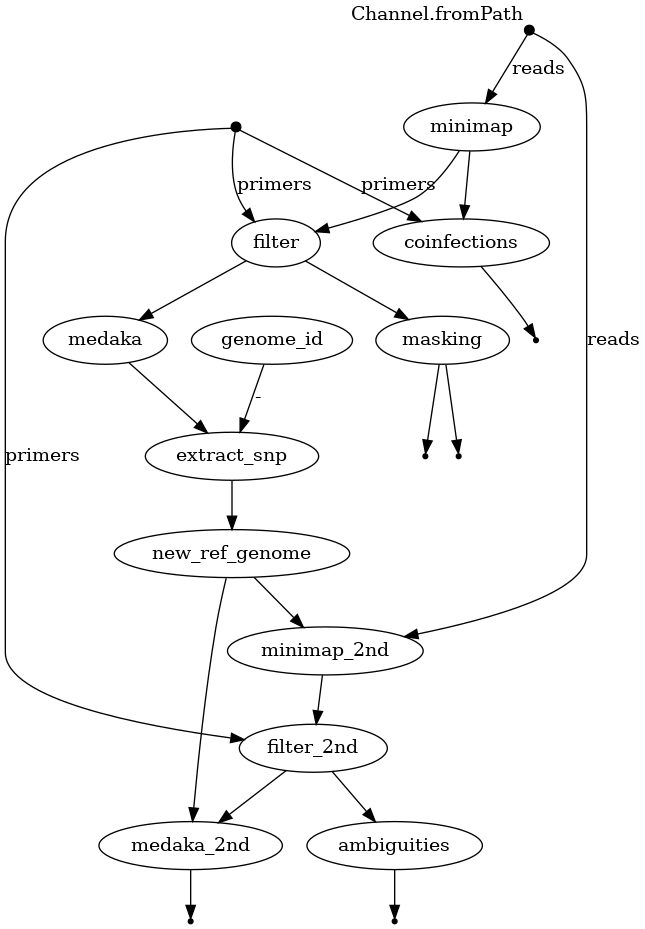
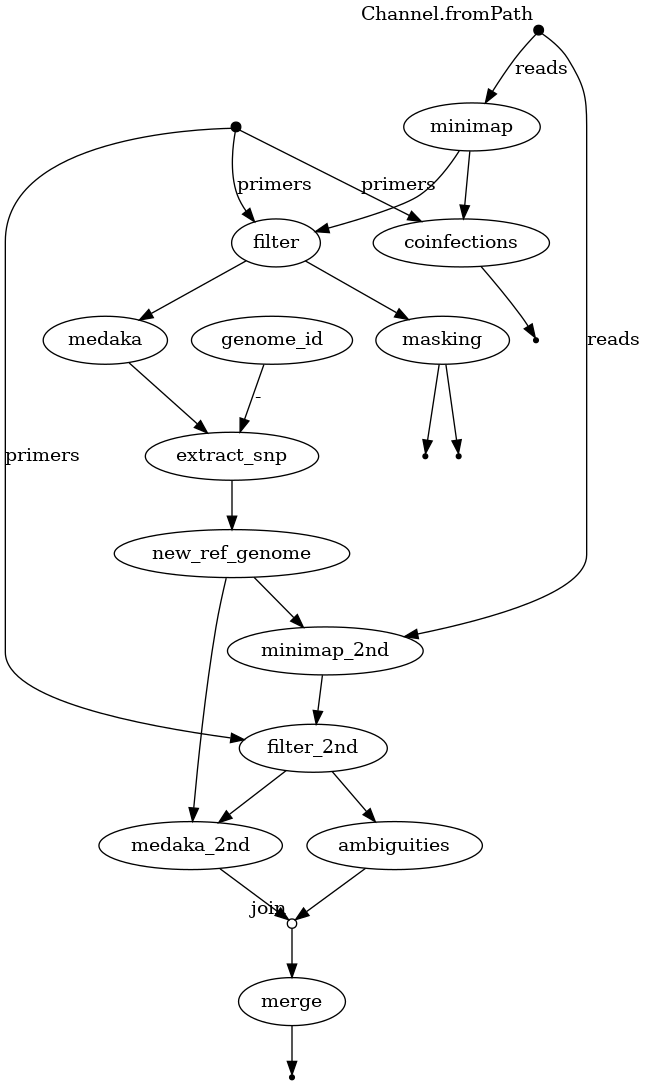
merge.nf module added

diff --git a/bin/merge_varscan_with_medaka_final.py b/bin/merge_varscan_with_medaka_final.py
@@ -1,18 +1,21 @@
-'''
+#!/usr/bin/env python3
+
+"""
 Skrypt zamienia SNP-y wykryte przez medaka na ambigous jesli wedlug varscana uzycie allelu alternatynwego jest ponizej upper_ambig
 Nie testujemy dolnej granicy, bo medaka ma zawsze racje i lower ambi traci tu znaczenie
 wersja na podstawie _5, usunalem tylko stary/nieuzywany kod
-'''
+"""
 
 import sys
+
 import vcf
 
 artic_vcf = sys.argv[1]
 varscan_vcf = sys.argv[2]
 
-upper_ambig=float(sys.argv[3])
+upper_ambig = float(sys.argv[3])
 out = sys.argv[4]
-cov=int(sys.argv[5])
+cov = int(sys.argv[5])
 
 lines_from_varscan = {}
 with open(varscan_vcf) as f:
@@ -23,7 +26,7 @@ with open(varscan_vcf) as f:
             line = line.split('\t')
             CHROM = line[0]
             POS = int(line[1])
-            COVERAGE=int(line[14]) + int(line[15]) + int(line[16]) + int(line[17])
+            COVERAGE = int(line[14]) + int(line[15]) + int(line[16]) + int(line[17])
             if len(line[3]) > 1:
                 # INDEL-e
                 if '+' in line[3]:
@@ -35,13 +38,12 @@ with open(varscan_vcf) as f:
             else:
                 # SNP-y
                 REF = line[2]
-                if float(line[6].split('%')[0])/100 > upper_ambig:
+                if float(line[6].split('%')[0]) / 100 > upper_ambig:
                     pass
                 else:
                     if COVERAGE >= cov:
                         ALT = line[3]
                         lines_from_varscan[POS] = line
-
 
 # na tym etapie w slowniku mamy mutacje ktore sa wedlug varscana ambigous
 # jako wartosc slownik ma po prostu linijke z pliku txt
@@ -59,31 +61,31 @@ for record in artic_vcf_reader:
         vcf_writer.write_record(record)
     else:
         if record.var_type == 'snp':
-            wiersz=lines_from_varscan[record.POS]
+            wiersz = lines_from_varscan[record.POS]
             print(f'{record.POS} is ambigous')
-            QUAL = 30 # varscan nie ma walidowac medaki dajemy qual 30
+            QUAL = 30  # varscan nie ma walidowac medaki dajemy qual 30
             # tworzymy record tak jak 3ma go pyvcf3
             # pola INGO, format, samples i sample_index kopiujemy z vcf-a medaki tak by zgadzal sie ich format
-            a = vcf.model._Record(CHROM = wiersz[0], POS = int(wiersz[1]), ID = '',  REF = wiersz[2], ALT = [vcf.model._Substitution(nucleotides = wiersz[3])], QUAL = QUAL,\
-                FILTER = [], INFO = record.INFO, FORMAT = record.FORMAT, samples = record.samples, sample_indexes = record._sample_indexes)
+            a = vcf.model._Record(CHROM=wiersz[0], POS=int(wiersz[1]), ID='', REF=wiersz[2], ALT=[vcf.model._Substitution(nucleotides=wiersz[3])], QUAL=QUAL, \
+                                  FILTER=[], INFO=record.INFO, FORMAT=record.FORMAT, samples=record.samples, sample_indexes=record._sample_indexes)
             vcf_writer.write_record(a)
-            del(lines_from_varscan[record.POS])
+            del (lines_from_varscan[record.POS])
         else:
             print(f'{record.POS} is ambigous but not a snp')
             vcf_writer.write_record(record)
-            del(lines_from_varscan[record.POS])
+            del (lines_from_varscan[record.POS])
 
 print('Medaka nie znalazla nastepujacych pozycji ambigous wlaczam je do analizy jesli maja poprawne p-value')
 print(lines_from_varscan)
 
 for pozycja, wiersz in lines_from_varscan.items():
-    QUAL = 30 # za quality bedzie p-value
-    a = vcf.model._Record(CHROM = wiersz[0], \
-            POS = int(wiersz[1]), \
-            ID = '.', \
-            REF = wiersz[2], \
-            ALT = [vcf.model._Substitution(nucleotides = wiersz[3])], # ALT jest lista klasy ._Substitution \
-            QUAL = QUAL, \
-            FILTER = [], \
-            INFO = record.INFO, FORMAT = record.FORMAT, samples = record.samples, sample_indexes = record._sample_indexes)
+    QUAL = 30  # za quality bedzie p-value
+    a = vcf.model._Record(CHROM=wiersz[0], \
+                          POS=int(wiersz[1]), \
+                          ID='.', \
+                          REF=wiersz[2], \
+                          ALT=[vcf.model._Substitution(nucleotides=wiersz[3])],  # ALT jest lista klasy ._Substitution \
+                          QUAL=QUAL, \
+                          FILTER=[], \
+                          INFO=record.INFO, FORMAT=record.FORMAT, samples=record.samples, sample_indexes=record._sample_indexes)
     vcf_writer.write_record(a)
